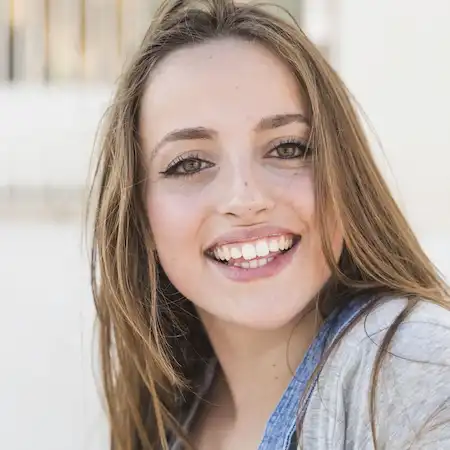
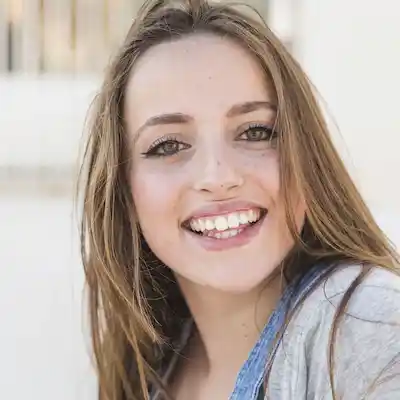
otimizado imagens depoimentos para mobile 520p

diff --git a/src/index.html b/src/index.html
@@ -131,7 +131,7 @@
                                             <div class="card depoimento">
                                                 <div class="card-body text-dark text-center">
                                                     <picture>
-                                                        <source media="(max-width:600px)" srcset="./img/depoimentos/pessoa-03-520p.webp">
+                                                        <source media="(max-width:520px)" srcset="./img/depoimentos/pessoa-03-520p.webp">
                                                         <img src="./img/depoimentos/pessoa-03.webp" alt="Pessoa"
                                                             class="rounded-circle"/>
                                                     </picture>
@@ -147,10 +147,11 @@
                                         <div class="col-md-3 mb-3">
                                             <div class="card depoimento">
                                                 <div class="card-body text-dark text-center">
-                                                    <p>
+                                                    <picture>
+                                                        <source media="(max-width:520px)" srcset="./img/depoimentos/pessoa-06-520p.webp">
                                                         <img src="./img/depoimentos/pessoa-06.webp" alt="Pessoa"
                                                             class="rounded-circle"/>
-                                                    </p>
+                                                    </picture>
                                                     <p><strong>Maurício</strong></p>
                                                     <p><span>@mauricio</span></p>
                                                     <p>
@@ -163,10 +164,11 @@
                                         <div class="col-md-3 mb-3">
                                             <div class="card depoimento">
                                                 <div class="card-body text-dark text-center">
-                                                    <p>
+                                                    <picture>
+                                                        <source media="(max-width:520px)" srcset="./img/depoimentos/pessoa-07-520p.webp">
                                                         <img src="./img/depoimentos/pessoa-07.webp" alt="Pessoa 01"
                                                             class="rounded-circle"/>
-                                                    </p>
+                                                    </picture>
                                                     <p><strong>Letícia</strong></p>
                                                     <p><span>@leticia</span></p>
                                                     <p>
@@ -179,10 +181,11 @@
                                         <div class="col-md-3 mb-3">
                                             <div class="card depoimento">
                                                 <div class="card-body text-dark text-center">
-                                                    <p>
+                                                    <picture>
+                                                        <source media="(max-width:520px)" srcset="./img/depoimentos/pessoa-04-520p.webp">
                                                         <img src="./img/depoimentos/pessoa-04.webp" alt="Pessoa"
                                                             class="rounded-circle"/>
-                                                    </p>
+                                                    </picture>
                                                     <p><strong>Andréa</strong></p>
                                                     <p><span>@andrea</span></p>
                                                     <p>
